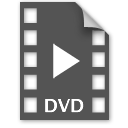
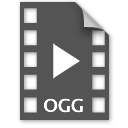
Addded ogg file extension mapping

Changed region(s): [[0.3438, 0.75, 0.6562, 0.9062]]

diff --git a/Classes/Viewer Interface/Pluggable Players/RCMovieView.m b/Classes/Viewer Interface/Pluggable Players/RCMovieView.m
@@ -64,7 +64,7 @@
         @"avi", @"mov", @"qt", @"mpg", @"mpeg", @"m15", @"m75", @"m2v", @"3gpp", @"mpg4", @"mp4",@"mkv",@"flv",@"divx",
         //Commenting out image types as this view isn't design well for them,even though it will display them
         // @"png", @"gif", @"bmp", @"tif", @"pic", @"pct", @"pict", @"jpg", @"jpeg", @"qtif",
-        @"swf", @"fli", @"flc", @"dv", @"wmv",@"asf",
+        @"swf", @"fli", @"flc", @"dv", @"wmv",@"asf",@"ogg",
         /* Finder types */
         @"VfW", @"MooV", @"MPEG", @"m2v ", @"mpg4", @"SWFL", @"FLI ", @"dvc!",@"ASF_", 
         //@"PNG ", @"GIF ", @"GiFf", @"BMP ", @"TIFF", @"PICT",@"JPEG", @"qtif",

diff --git a/Plugin Sources/DVDPlayer/DVDPlayerView.m b/Plugin Sources/DVDPlayer/DVDPlayerView.m
@@ -45,7 +45,7 @@ void aspectChange(DVDEventCode inEventCode, UInt32 inEventValue1, UInt32 inEvent
  */
 +(NSDictionary *)plugInfo
 {
-	NSArray *extensions = [NSArray arrayWithObjects:@"public.folder", nil];
+	NSArray *extensions = [NSArray arrayWithObjects:@"public.folder",@"vdvd", nil];
 	return [NSDictionary dictionaryWithObjects:[NSArray arrayWithObjects:@"DVD Player",	extensions,			nil]
 									   forKeys:[NSArray arrayWithObjects:@"Name",		@"FileExtensions",	nil]];	
 }
